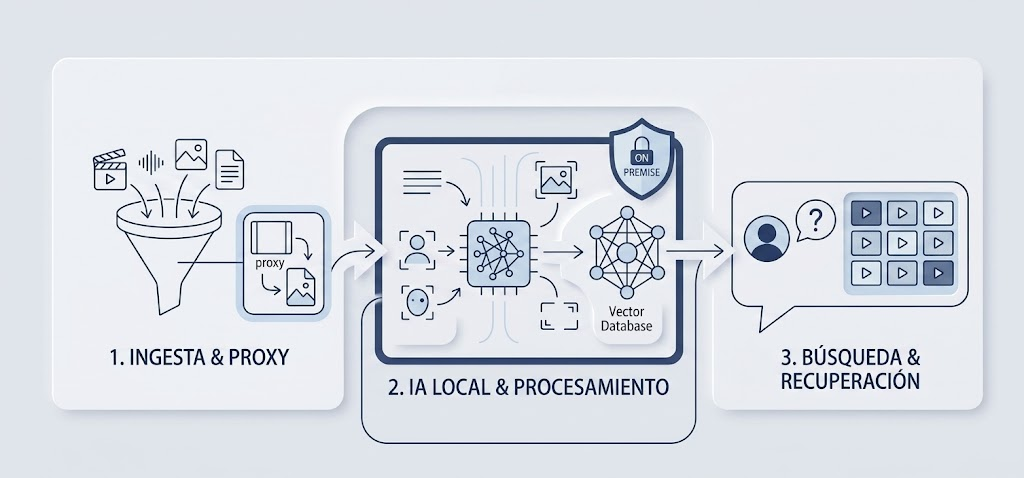
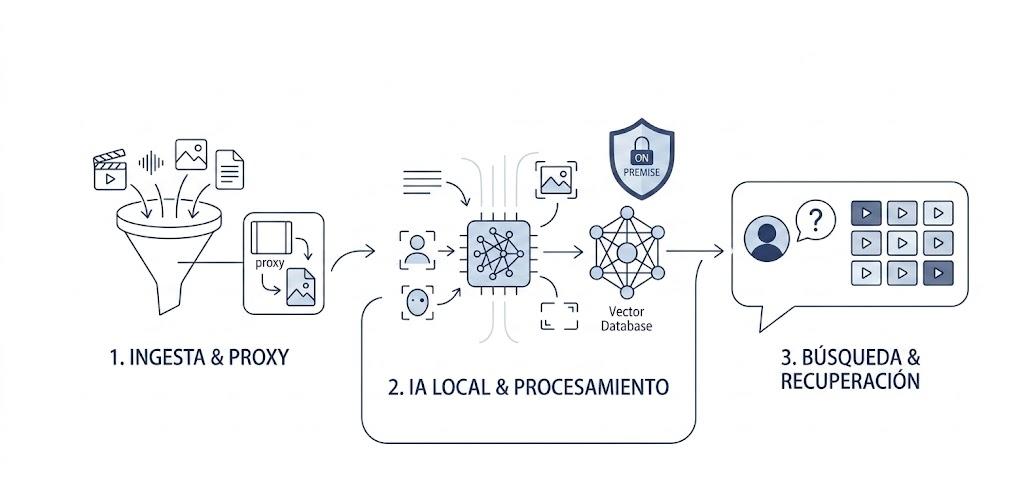
Reemplazar infografia IA y centrar en HTML

diff --git a/public/catalog/index.html b/public/catalog/index.html
@@ -584,7 +584,7 @@ gtag("config", "GT-WBZNCSFL");
         <p class="catalog-v2-section-subtitle">Desde la ingesta hasta la recuperación, todo el pipeline está integrado en una sola plataforma, potenciada por IA en cada paso.</p>
         
         <div style="text-align: center; margin-bottom: 50px;">
-            <img src="/wp-content/uploads/2026/05/workflow-ia.png" alt="Diagrama de Flujo de Trabajo IA" style="max-width: 100%; height: auto; border-radius: 20px; box-shadow: 0 20px 40px rgba(0,0,0,0.08); border: 1px solid rgba(0,0,0,0.05);">
+            <img src="/wp-content/uploads/2026/05/workflow-ia.png" alt="Diagrama de Flujo de Trabajo IA" style="display: block; margin: 0 auto; max-width: 100%; height: auto; border-radius: 20px; box-shadow: 0 20px 40px rgba(0,0,0,0.08); border: 1px solid rgba(0,0,0,0.05);">
         </div>
 
         <div class="catalog-v2-grid">
